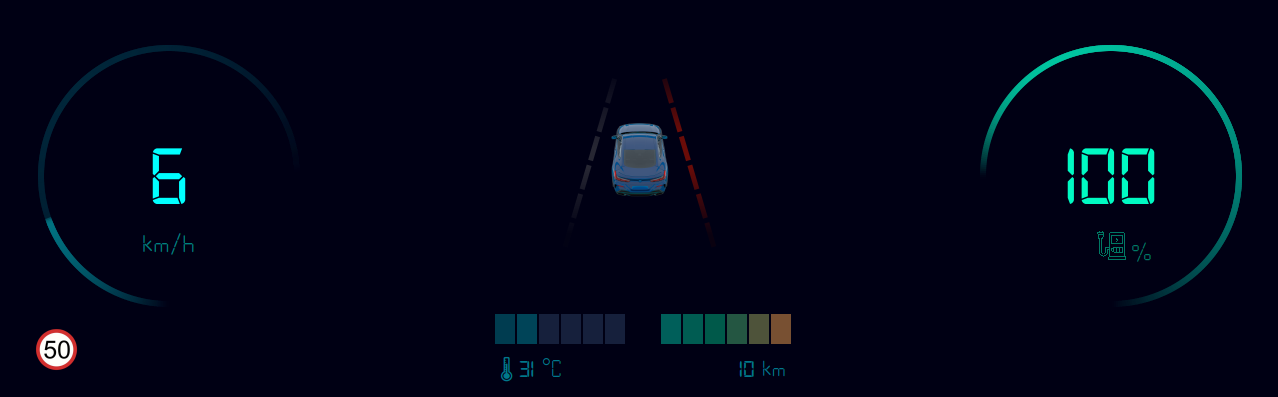
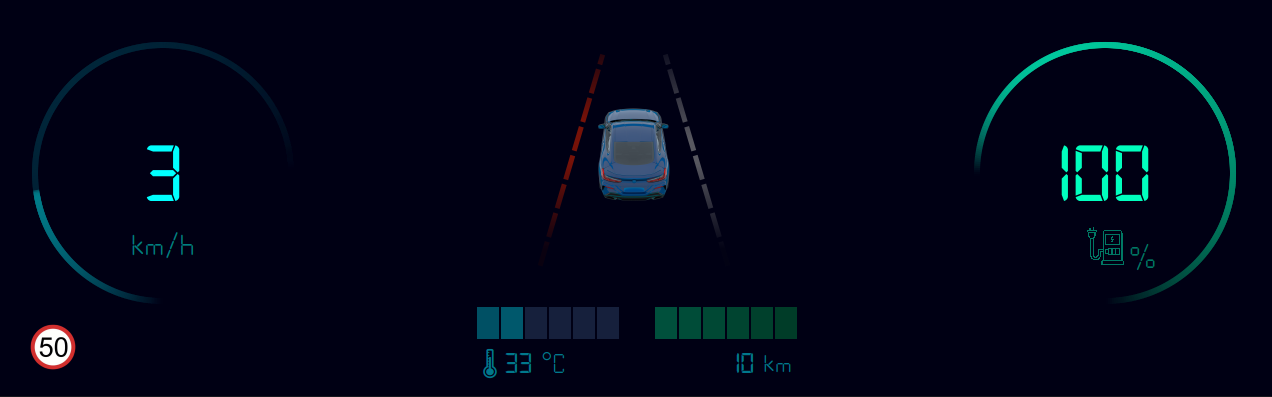
little changes

diff --git a/digital_cluster/src/lane.cpp b/digital_cluster/src/lane.cpp
@@ -5,15 +5,12 @@ Lane::Lane(QWidget *parent) : QWidget(parent), lane(1)
     if (parent)
     {
         setMinimumSize(parent->width() * 0.5, parent->height() * 0.5);
-        // setMaximumSize(parent->width() * 0.6, parent->height() * 0.4);
     }
     QString path = QCoreApplication::applicationDirPath();
     QString digital_path = QDir(path).filePath("../fonts_icon/sports.png");
     digital_path = QDir::cleanPath(digital_path);
     pixmap = QPixmap(digital_path);
-    // pixmap_original = QPixmap(digital_path);
-    // pixmap = pixmap_original.scaled(size(), Qt::KeepAspectRatio, Qt::SmoothTransformation);
-    
+
     pixmap = pixmap.scaled(this->width() * 0.4 , height() * 0.5, Qt::KeepAspectRatio, Qt::SmoothTransformation);
     animationTimer = new QTimer(this);
     connect(animationTimer, &QTimer::timeout, this, [this]() {
@@ -62,10 +59,10 @@ void Lane::showNoLanePopup()
         QHBoxLayout *layout = new QHBoxLayout(popup);
         QLabel *iconLabel = new QLabel(popup);
         QPixmap warningIcon(digital_path);
-        iconLabel->setPixmap(warningIcon.scaled(22, 22, Qt::KeepAspectRatio, Qt::SmoothTransformation));
+        iconLabel->setPixmap(warningIcon.scaled(30, 30, Qt::KeepAspectRatio, Qt::SmoothTransformation));
 
         QLabel *textLabel = new QLabel(" Take manual control", popup);
-        textLabel->setStyleSheet("color: gray; font-size: 16px;");
+        textLabel->setStyleSheet("color: gray; font-size: 20px;");
         layout->addWidget(iconLabel, 0, Qt::AlignTop | Qt::AlignCenter);
         layout->addWidget(textLabel, 0, Qt::AlignCenter);
         popup->setLayout(layout);
@@ -85,18 +82,6 @@ void Lane::showNoLanePopup()
         fadeIn->start(QAbstractAnimation::DeleteWhenStopped);
     }
 }
-
-// void Lane::resizeEvent(QResizeEvent *event)
-// {
-//     if (!pixmap_original.isNull()) {
-//         pixmap = pixmap_original.scaled(event->size(),
-//                                         Qt::KeepAspectRatio,
-//                                         Qt::SmoothTransformation);
-//         update();
-//     }
-
-//     QWidget::resizeEvent(event); // call base implementation
-// }
 
 
 void Lane::paintEvent(QPaintEvent *event)

diff --git a/digital_cluster/src/autonomy.cpp b/digital_cluster/src/autonomy.cpp
@@ -48,13 +48,14 @@ void Autonomy::set_autonomy(int aut)
             QColor endColor;
             QColor startColor(0, 80, 60); // dark cyan-green
             
-            if (aut > 6)
+            if (aut >= 5)
             {
                 endColor = QColor(0, 60, 40); // slightly brighter cyan-green
             }
             else
             {
-                endColor = QColor(60, 10, 0);
+                startColor = QColor(80, 20, 0);
+                endColor = QColor(50, 10, 0);
             }
             // Interpolate based on **active section index** (0 = leftmost active)
             int activeIndex = i - (nb_sections - sections_color);  // 0..sections_active-1

diff --git a/digital_cluster/src/battery.cpp b/digital_cluster/src/battery.cpp
@@ -6,7 +6,7 @@ Battery::Battery(QWidget *parent)
     if (parent)
     {
         setMinimumSize(parent->width() * 0.5, parent->height() * 0.7); 
-        setMaximumSize(parent->width() * 0.5, parent->height() * 0.7);
+        // setMaximumSize(parent->width() * 0.5, parent->height() * 0.7);
     }
 }
 
@@ -75,7 +75,7 @@ void Battery::draw_arcs(TestPainter *painter)
     {
         segments = 200;
         start_color = QColor(0, 80, 60); 
-        end_color = QColor(0, 160, 140, 255); 
+        end_color = QColor(0, 100, 150, 255); 
     }
     for (int i = 0; i < segments; ++i)
     {

diff --git a/digital_cluster/src/speed.cpp b/digital_cluster/src/speed.cpp
@@ -5,7 +5,7 @@ Speed::Speed(QWidget *parent)
 {
     if (parent) {
         setMinimumSize(parent->width() * 0.5, parent->height() * 0.7); 
-        setMaximumSize(parent->width() * 0.5, parent->height() * 0.7);
+        // setMaximumSize(parent->width() * 0.5, parent->height() * 0.7);
     }
     QString path = QCoreApplication::applicationDirPath();
     QString digital_path = QDir(path).filePath("../fonts_icon/digital-7.ttf");
